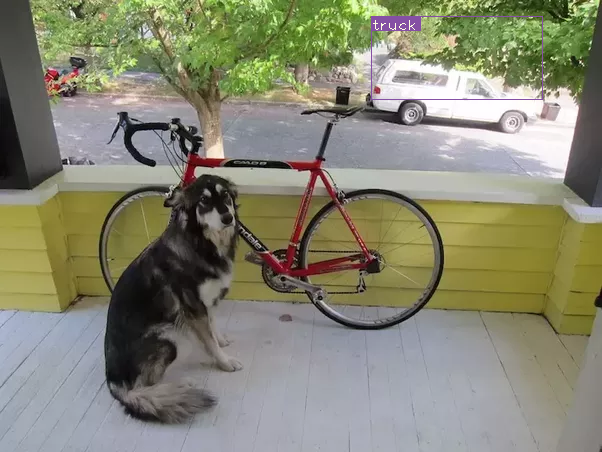
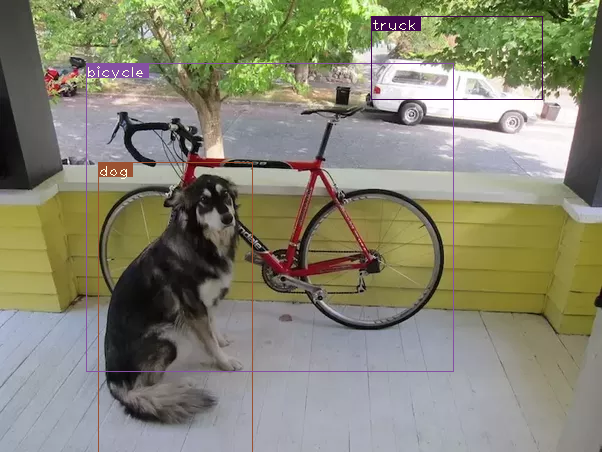
debug

diff --git a/YOLO_v3/util.py b/YOLO_v3/util.py
@@ -2,7 +2,6 @@ import torch
 import numpy as np
 
 
-
 def write_results(prediction, confidencce, num_classes, nms_conf=0.4):
     conf_mask = (prediction[:, :, 4] > confidencce).float().unsqueeze(
         2)  # shape = N * GGA * 1
@@ -22,11 +21,12 @@ def write_results(prediction, confidencce, num_classes, nms_conf=0.4):
             ind]  # image Tensor         # shape = GGA * attrs
 
         # confidence threshholding
-        max_conf, max_conf_score = torch.max(image_pred[:, 5:5 + num_classes],
+        max_conf_score, max_conf = torch.max(image_pred[:, 5:5 + num_classes],
                                              1)  # shape = GGA
+        # print(unique(max_conf_score).shape)
         max_conf = max_conf.float().unsqueeze(1)  # shape = GGA * 1
         max_conf_score = max_conf_score.float().unsqueeze(1)  # shape = GGA * 1
-        seq = (image_pred[:, :5], max_conf, max_conf_score)
+        seq = (image_pred[:, :5], max_conf_score, max_conf)
         image_pred = torch.cat(seq, 1)  # shape = GGA * 5+2
         # print(image_pred.shape)
         non_zero_ind = torch.nonzero(
@@ -40,6 +40,7 @@ def write_results(prediction, confidencce, num_classes, nms_conf=0.4):
         except:
             continue
         # handle situations with no valid_bbox
+        # print(unique(image_pred_[:,-1]))
         if image_pred_.shape[0] == 0:
             continue
         # print(image_pred_[:, -1])
@@ -54,27 +55,34 @@ def write_results(prediction, confidencce, num_classes, nms_conf=0.4):
             # get the detections with one particular class
             cls_mask = image_pred_ * (
                 image_pred_[:, -1] == cls).float().unsqueeze(
-                    1)  # shape = GAA[no_zero][detected_class] * 7
+                    1)  # shape = GAA[detected_class] * 7
+
             class_mask_ind = torch.nonzero(cls_mask[:, -2]).squeeze()
+            # print(class_mask_ind.shape)
             image_pred_class = cls_mask[class_mask_ind, :].view(-1, 7)
 
-            # sort the detections such that the entry with the maximum objectness
-            # confidence is at the top
+            # sort the detections such that the entry with the
+            # maximum objectness confidence is at the top
             # print(image_pred_class.shape)
             conf_sort_index = torch.sort(
                 image_pred_class[:, 4], descending=True)[1]
             image_pred_class = image_pred_class[conf_sort_index]
+            # print(image_pred_class.shape)
             idx = image_pred_class.shape[0]
 
             for i in range(idx):
-                # Get the IOUs of all boxes that come after the one we are looking at in the loop
+                # Get the IOUs of all boxes that come after
+                # the one we are looking at in the loop
                 try:
                     ious = bbox_iou(image_pred_class[i].unsqueeze(0),
                                     image_pred_class[i + 1:])
+
                 except ValueError:
+                    # print('ValueError')
                     break
 
                 except IndexError:
+                    # print('IndexError')
                     break
 
                 # Zero out all the detections that have IoU > treshhold
@@ -84,17 +92,19 @@ def write_results(prediction, confidencce, num_classes, nms_conf=0.4):
                 # Remove the non-zero entries
                 non_zero_ind = torch.nonzero(image_pred_class[:, 4]).squeeze()
                 image_pred_class = image_pred_class[non_zero_ind].view(-1, 7)
-        batch_ind = image_pred_class.new(image_pred_class.shape[0],
-                                         1).fill_(ind)
-        # Repeat the batch_id for as many detections of the class cls in the image
-        seq = batch_ind, image_pred_class
 
-        if not write:
-            output = torch.cat(seq, 1)
-            write = True
-        else:
-            out = torch.cat(seq, 1)
-            output = torch.cat((output, out), 0)
+            batch_ind = image_pred_class.new(image_pred_class.shape[0],
+                                             1).fill_(ind)
+            # Repeat the batch_id for as many detections of the
+            # class cls in the image
+            seq = batch_ind, image_pred_class
+
+            if not write:
+                output = torch.cat(seq, 1)
+                write = True
+            else:
+                out = torch.cat(seq, 1)
+                output = torch.cat((output, out), 0)
     try:
         return output
     except:  # There isnt a single detection in any images of the batch
@@ -135,7 +145,7 @@ def unique(tensor):
         k = i.item()
         s.add(k)
     s = np.array(list(s))
-    return(torch.from_numpy(s).float().cuda())
+    return (torch.from_numpy(s).float().cuda())
 
 
 if __name__ == '__main__':

diff --git a/YOLO_v3/detector.py b/YOLO_v3/detector.py
@@ -8,17 +8,20 @@ import pickle as pkl
 import pandas as pd
 from parser import arg_parse
 from loader import load_network, load_images, load_classes
+import random
 
 
-# python detector.py --images 'data/dog-cycle-car.png' --det 'det' --weights 'data/yolov3.weights'
+# python detector.py --images 'data/dog-cycle-car.png'
+# --det 'det' --weights 'data/yolov3.weights'
 def detection_loop(args, num_classes):
     write = 0
-    start_det_loop = time.time()
     CUDA = torch.cuda.is_available()
     model = load_network(args)
     inp_dim = int(model.net_info["height"])
     imlist, im_batches, im_dim_list, loaded_ims, read_dir, load_batch = load_images(
         args, inp_dim)
+    start_det_loop = time.time()
+    output_recast = 0
     for i, batch in enumerate(im_batches):
         # load the image
         start = time.time()
@@ -31,7 +34,7 @@ def detection_loop(args, num_classes):
                 nms_conf=float(args.nms_thresh))
 
         end = time.time()
-
+        output_recast += end - start
         if type(prediction) == int:
             for im_num, image in enumerate(
                     imlist[i * int(args.bs):min((i + 1) *
@@ -45,7 +48,8 @@ def detection_loop(args, num_classes):
                 )
             continue
         prediction[:,
-                   0] += i * args.bs  # transform the atribute from index in batch to index in imlist
+                   0] += i * args.bs
+        # transform the atribute from index in batch to index in imlist
 
         if not write:  # If we have't initialised output
             output = prediction
@@ -97,15 +101,15 @@ def detection_loop(args, num_classes):
         img = results[int(x[0])]
         cls = int(x[-1])
         label = "{0}".format(classes[cls])
-        cv2.rectangle(img, c1, c2, color, 1)
+        cv2.rectangle(img, c1, c2, color[cls], 1)
         t_size = cv2.getTextSize(label, cv2.FONT_HERSHEY_PLAIN, 1, 1)[0]
         c2 = c1[0] + t_size[0] + 3, c1[1] + t_size[1] + 4
-        cv2.rectangle(img, c1, c2, color, -1)
+        cv2.rectangle(img, c1, c2, color[cls], -1)
         cv2.putText(img, label, (c1[0], c1[1] + t_size[1] + 4),
                     cv2.FONT_HERSHEY_PLAIN, 1, [225, 255, 255], 1)
         return img
 
-    list(map(lambda x: Write(x, loaded_ims, colors[1]), output))
+    list(map(lambda x: Write(x, loaded_ims, colors), output))
     det_names = pd.Series(imlist).apply(lambda x: "{}/det_{}".format(args.det, x.split("/")[-1]))
 
     list(map(cv2.imwrite, det_names, loaded_ims))
@@ -120,9 +124,9 @@ def detection_loop(args, num_classes):
                                    start_det_loop - load_batch))
     print("{:25s}: {:2.3f}".format(
         "Detection (" + str(len(imlist)) + " images)",
-        output_recast - start_det_loop))
+        output_recast))
     print("{:25s}: {:2.3f}".format("Output Processing",
-                                   class_load - output_recast))
+                                   class_load - start_det_loop))
     print("{:25s}: {:2.3f}".format("Drawing Boxes", end - draw))
     print("{:25s}: {:2.3f}".format("Average time_per_img",
                                    (end - load_batch) / len(imlist)))
@@ -141,4 +145,5 @@ if __name__ == '__main__':
 
     num_classes = 80  # For COCO
     classes = load_classes("data/coco.names")
+
     detection_loop(args, num_classes)

diff --git a/YOLO_v3/darknet.py b/YOLO_v3/darknet.py
@@ -1,8 +1,6 @@
 import torch
 import torch.nn as nn
 import numpy as np
-import darknet
-from util import write_results
 from parser import parse_cfg
 from generator import create_modules
 from transform import predict_transform
@@ -18,14 +16,7 @@ class Darknet(nn.Module):
 
     def load_weights(self, weightfile):
         # Open the weights file
-        fp = open(
-            weightfile,
-            mode='rb',
-            buffering=-1,
-            encoding=None,
-            errors=None,
-            newline=None,
-            closefd=True)
+        fp = open(weightfile, mode='rb')
 
         # The first 5 values are header information
         # 1. Major version number
@@ -103,14 +94,15 @@ class Darknet(nn.Module):
                         weights[ptr:ptr + num_biases])
                     ptr += num_biases
 
-                    # reshape the loaded weights according to the dims of the model weights
+                    # reshape the loaded weights according
+                    #  to the dims of the model weights
                     conv_biases = conv_biases.view_as(conv.bias.data)
 
                     # Finally copy the data
                     conv.bias.data.copy_(conv_biases)
 
                 # Let us load the weights for the Convolutional layers
-                num_weights = conv.weight.data.numel()
+                num_weights = conv.weight.numel()
 
                 conv_weights = torch.from_numpy(weights[ptr:ptr + num_weights])
                 ptr += num_weights
@@ -186,6 +178,3 @@ class DetectionLayer(nn.Module):
 class EmptyLayer(nn.Module):
     def __init__(self):
         super(EmptyLayer, self).__init__()
-
-
-

diff --git a/YOLO_v3/transform.py b/YOLO_v3/transform.py
@@ -62,7 +62,7 @@ def predict_transform(prediction, inp_dim, anchors, num_classes, CUDA=True):
 
     x_offset = torch.FloatTensor(a).view(-1, 1)  # shape = GG * 1
     y_offset = torch.FloatTensor(b).view(-1, 1)  # shape = GG * 1
-
+    
     if CUDA:
         x_offset = x_offset.cuda()
         y_offset = y_offset.cuda()
@@ -81,10 +81,18 @@ def predict_transform(prediction, inp_dim, anchors, num_classes, CUDA=True):
     anchors = anchors.repeat(grid_size * grid_size,
                              1).unsqueeze(0)  # shape 1 * G*G*A * 2
     prediction[:, :, 2:4] = torch.exp(
-        prediction[:, :, 2:4]) * anchors  # shaoe N * GGA * 2
+        prediction[:, :, 2:4]) * anchors  # shape N * GGA * 2
     prediction[:, :, 5:5 + num_classes] = torch.sigmoid(
         (prediction[:, :, 5:5 + num_classes]))
 
     prediction[:, :, :4] *= stride
 
     return prediction  # N * GGA * attrs
+
+if __name__ == '__main__':
+    x = torch.Tensor(np.arange(10)).cuda().view(-1,1)
+    y = np.arange(10)
+    a,b = np.meshgrid(y,y)
+    a,b = torch.FloatTensor(a).view(-1,1),torch.FloatTensor(b).view(-1,1)
+    c = torch.cat((a,b),1).repeat(1,2)
+    print(c.shape)

diff --git a/YOLO_v3/loader.py b/YOLO_v3/loader.py
@@ -5,6 +5,7 @@ import os.path as osp
 from torch.autograd import Variable
 import cv2
 import time
+from util import write_results
 from transform import prep_image
 import numpy as np
 
@@ -39,7 +40,7 @@ def load_network(args):
 def load_images(args, inp_dim):
     if not os.path.exists(args.det):
         os.makedirs(args.det)
-    read_dir = time.time()
+    read_dir = (time.time())
     # Detection phase
     try:
         imlist = [
@@ -53,7 +54,7 @@ def load_images(args, inp_dim):
         print("No file or directory with the name {}".format(args.images))
         exit()
 
-    load_batch = time.time()
+    load_batch = (time.time())
     loaded_ims = [cv2.imread(x) for x in imlist]
     # PyTorch Variables for images
     im_batches = list(
@@ -100,7 +101,7 @@ if __name__ == '__main__':
     pred = model(inp, torch.cuda.is_available())
     result = write_results(
         pred.data,
-        0.0,
+        0.5,
         80,
     )
-    print(result.shape)
+    print(result)
